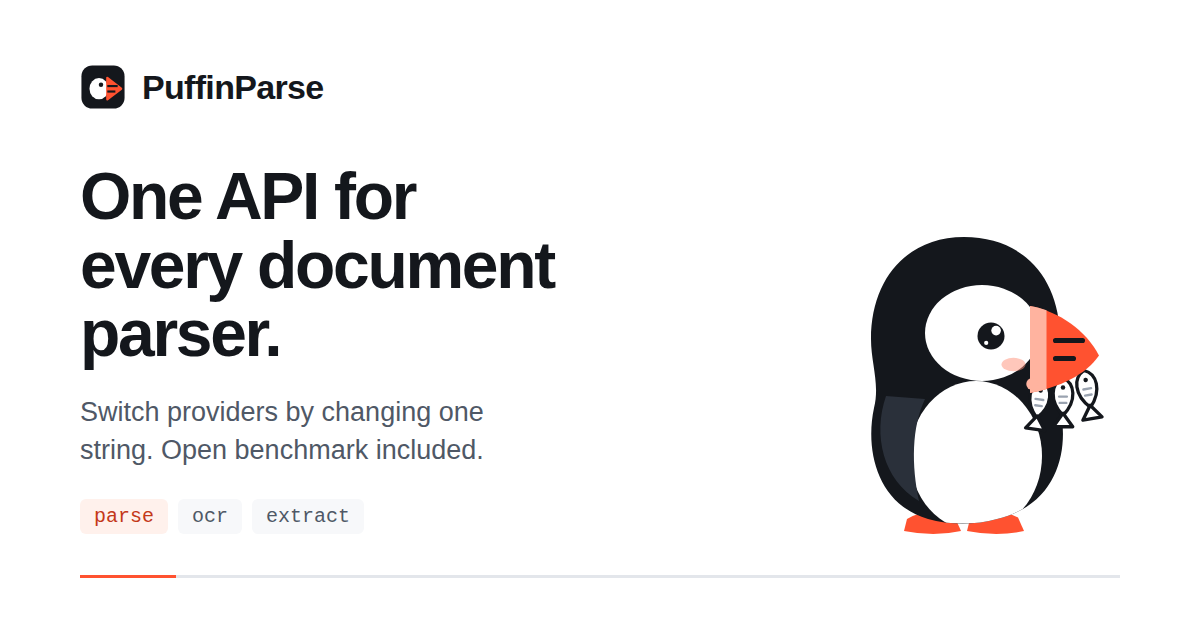
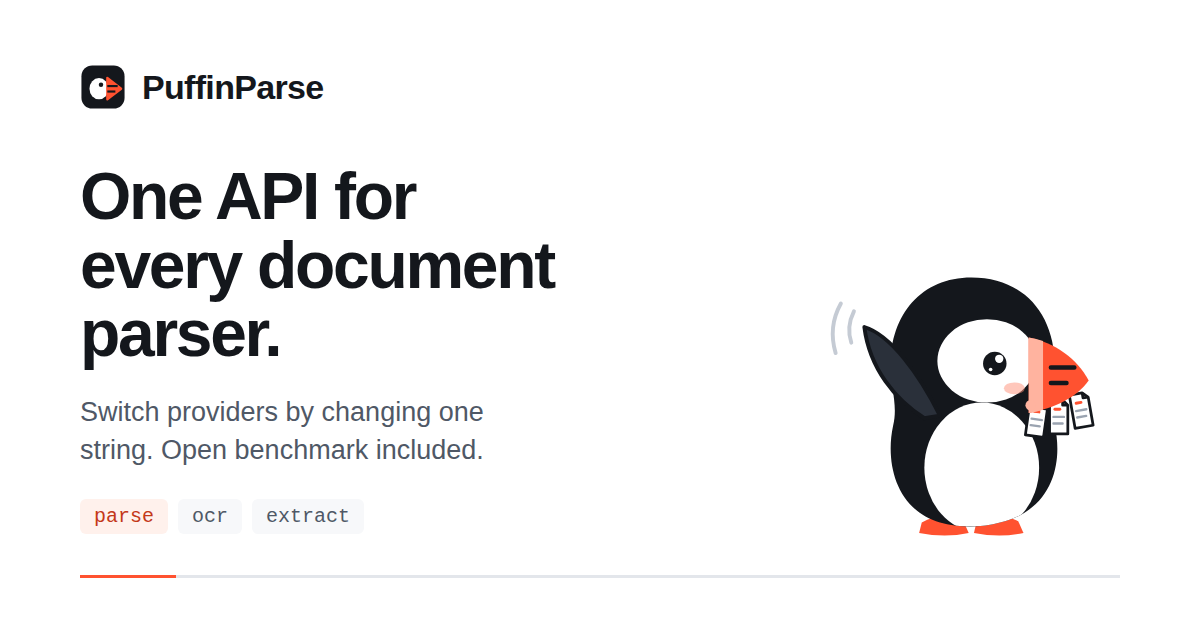
Make the mascot the waving puffin with three pages
Chosen from the explored poses: the puffin waves with its raised wing
and carries a row of three pages instead of fish, which says
"documents" directly while keeping the puffin's row-in-the-beak habit.
The mark stays C2.

The landing puffin now waves as well as hops when a response finishes
typing (the wing is its own .pp-arm group). The social card, 404 page,
README and the brand-motion idle loop use the new pose. docs/DESIGN.md
describes the pose and gains a Brand motion section: one gesture at a
time tied to an event, the logo reveal as the only logo animation,
physical easing, seamless loops. ADR-24 is amended.

Changed region(s): [[0.6783, 0.3619, 0.925, 0.8746]]

diff --git a/website/assets/landing.css b/website/assets/landing.css
@@ -32,6 +32,9 @@
 .lp-perch { position: absolute; top: -107px; right: 2.25rem; z-index: 2; pointer-events: none;
   transform-origin: 50% 100%; }
 .lp-perch.hop { animation: lp-hop .42s cubic-bezier(.3, .7, .4, 1) 1; }
+.lp-perch .pp-arm { transform-box: view-box; transform-origin: 68px 125px; }
+.lp-perch.hop .pp-arm { animation: lp-wave .9s ease-in-out 1; }
+@keyframes lp-wave { 0%, 100% { transform: rotate(0); } 25%, 75% { transform: rotate(-14deg); } 50% { transform: rotate(8deg); } }
 @keyframes lp-hop { 0%, 100% { transform: translateY(0); } 40% { transform: translateY(-9px); } }
 
 /* ---------------------------------------------------------------------- hero */
@@ -274,5 +277,5 @@ mark.lp-diff { background: var(--lp-soft); color: var(--lp-ink); border-radius: 
   .lp .topin { gap: .6rem; padding: 0 1.15rem; }
   .lp-hero-demo { margin-top: 4rem; }
   .lp-perch { top: -70px; right: 1.25rem; }
-  .lp-perch .puffin { width: 64px; }
+  .lp-perch .puffin { width: 74px; }
 }

diff --git a/website/build.py b/website/build.py
@@ -583,7 +583,7 @@ def landing_html(site: Site, providers: list[dict[str, Any]]) -> str:
         "RESULTS": site.blob("benchmark/results", tree=True),
         "FAVICON": FAVICON,
         "MARK": MARK,
-        "PUFFIN_HERO": puffin(100, "lp-puffin"),
+        "PUFFIN_HERO": puffin(115, "lp-puffin"),
         "SOCIAL": social_meta(site, f"{site.title}: {site.tagline}", description, site.absolute(site.base)),
         "CANONICAL": site.absolute(site.base),
         "DESCRIPTION": html.escape(description, quote=True),
@@ -878,7 +878,7 @@ def write_extras(site: Site, pages: list[Page], out: Path) -> None:
         section="",
         has_md=False,
         body_html=(
-            f'<div class="notfound">{puffin(120)}</div>'
+            f'<div class="notfound">{puffin(138)}</div>'
             "<h1>Page not found</h1><p>That URL is not part of the PuffinParse site. The documentation "
             f'moved under <a href="{site.docs_base}"><code>{site.docs_base}</code></a>.</p>'
             f'<p><a href="{site.base}">Home</a> · '

diff --git a/docs/DESIGN.md b/docs/DESIGN.md
@@ -30,7 +30,8 @@ properties. This page explains what the tokens are for.
 PuffinParse is named after the Atlantic puffin: black and white with an orange beak, which is
 exactly the paper, ink and scan palette above. Puffins are known for carrying a neat row of fish
 crosswise in their beak; PuffinParse carries a document back as a neat row of typed blocks. Both
-brand assets tell that story with lines of text in the beak.
+brand assets tell that story with text in the beak: the mark's beak carries two parsed lines, the
+mascot carries a row of three pages.
 
 ### The mark
 
@@ -46,19 +47,41 @@ ground), the face is white, the beak is `--scan` and carries two ink stripes, th
 
 ### The puffin (mascot)
 
-[`website/assets/puffin.svg`](../website/assets/puffin.svg): a chubby, front-facing puffin holding
-three document fish (white fish with two grey text lines). Body `--mascot-body`, wing
-`--mascot-wing` (both lift in dark mode), face and belly white, beak and feet `--scan`, a pale
-`#ffb39f` base ridge and gape, a soft blush.
+[`website/assets/puffin.svg`](../website/assets/puffin.svg): a chubby, front-facing puffin waving
+with its raised wing, a row of three pages hanging from its beak (white, folded corner, a short
+`--scan` heading bar and two grey text lines). Body `--mascot-body`, wing `--mascot-wing` outlined
+in the body colour (both lift in dark mode), face and belly white, beak and feet `--scan`, a pale
+`#ffb39f` base ridge and gape, a soft blush, two grey wave marks beside the wing.
 
-- **Brand moments only:** the landing hero (perched on the demo card; it hops once each time a
-  response finishes typing), the 404 page, empty states, the social card and the README. Never in
+- **Brand moments only:** the landing hero (perched on the demo card; it hops and waves once each
+  time a response finishes typing), the 404 page, empty states, the social card and the README. Never in
   the working views of the viewer or docs, never next to data.
 - Inline it (`puffin(width)` in `website/build.py`) where the manual theme toggle must reach it;
   as an `<img>` it follows the OS colour scheme through its own media query.
 - Keep its classes `pp-*`: an inline SVG's `<style>` applies to the whole page.
 - One puffin per view. It does not talk, wink or wear props; new poses keep the same shapes and
-  colours.
+  colours, and keep something in the beak. Explored poses for later (reading, sleepy for empty
+  states, terminal for the CLI, a round sticker) follow the same rules.
+- The wing is its own group (`.pp-arm`), so a page can animate the wave by rotating it about the
+  shoulder (68, 125 in SVG units).
+
+### Brand motion
+
+Tools keep the motion rules below (state changes only). Brand moments may move more, always
+within these rules:
+
+- **One gesture at a time, tied to an event.** The landing puffin hops and waves when a response
+  finishes typing; nothing loops idly on a page people read. Everything stops under
+  `prefers-reduced-motion`.
+- **The logo reveal is the canonical intro:** corner ticks lock on like a detector, the tile lands,
+  the face pops, the beak slides in and its two stripes type out, then the wordmark rises. Use it to
+  open or close videos and talks; do not invent other logo animations.
+- **Physical, not floaty:** springs and squash-and-stretch for the puffin, ease-out for things that
+  arrive, 160–600 ms per gesture. No spinning, bouncing loops or particle effects.
+- **Loops are seamless:** every periodic motion divides the loop length.
+- Sources live in [`marketing/videos/brand-motion/`](../marketing/videos/brand-motion/README.md)
+  (Remotion): `LogoReveal`, `MascotIdle`, and the 3D `Puffin3D` and `Icon3D` explorations, which
+  are not yet part of the brand.
 
 ### Social card
 

diff --git a/docs/DECISIONS.md b/docs/DECISIONS.md
@@ -388,3 +388,7 @@ sentence case, and bold marks a best value only when it is unique as displayed.
 live in `website/build.py` (`MARK`) and the viewer's `index.html`; the social card must be
 re-rendered (`website/og/render.py`, Playwright) when the card, mark or mascot changes. The launch
 videos still show the text wordmark until they are re-rendered.
+
+*Amended 2026-09-25:* the mark is C2 of the explored set (kept after comparing six alternatives), and
+the mascot became the waving puffin with three pages in its beak (instead of three document fish),
+which says "documents" more directly. `docs/DESIGN.md` gained a Brand motion section.

diff --git a/CHANGELOG.md b/CHANGELOG.md
@@ -23,7 +23,7 @@ Python package `puffinparse` share a single version. Entries before the rename s
 ### Added
 
 - **Puffin brand** (ADR-24, `docs/DESIGN.md` Brand): a puffin mark (favicon and header logo on the
-  landing page, docs and benchmark viewer) and a puffin mascot holding three document fish, shown
+  landing page, docs and benchmark viewer) and a waving puffin mascot with three pages in its beak, shown
   on the landing hero, the 404 page and the README. Every page now has an Open Graph / Twitter
   social card (`website/assets/og.png`). The landing demo shows a response on arrival instead of
   starting blank.

diff --git a/README.md b/README.md
@@ -1,4 +1,4 @@
-<p align="center"><img src="website/assets/puffin.svg" width="112" alt="The PuffinParse puffin holding three document fish"></p>
+<p align="center"><img src="website/assets/puffin.svg" width="128" alt="The PuffinParse puffin waving, three pages in its beak"></p>
 
 # PuffinParse
 
